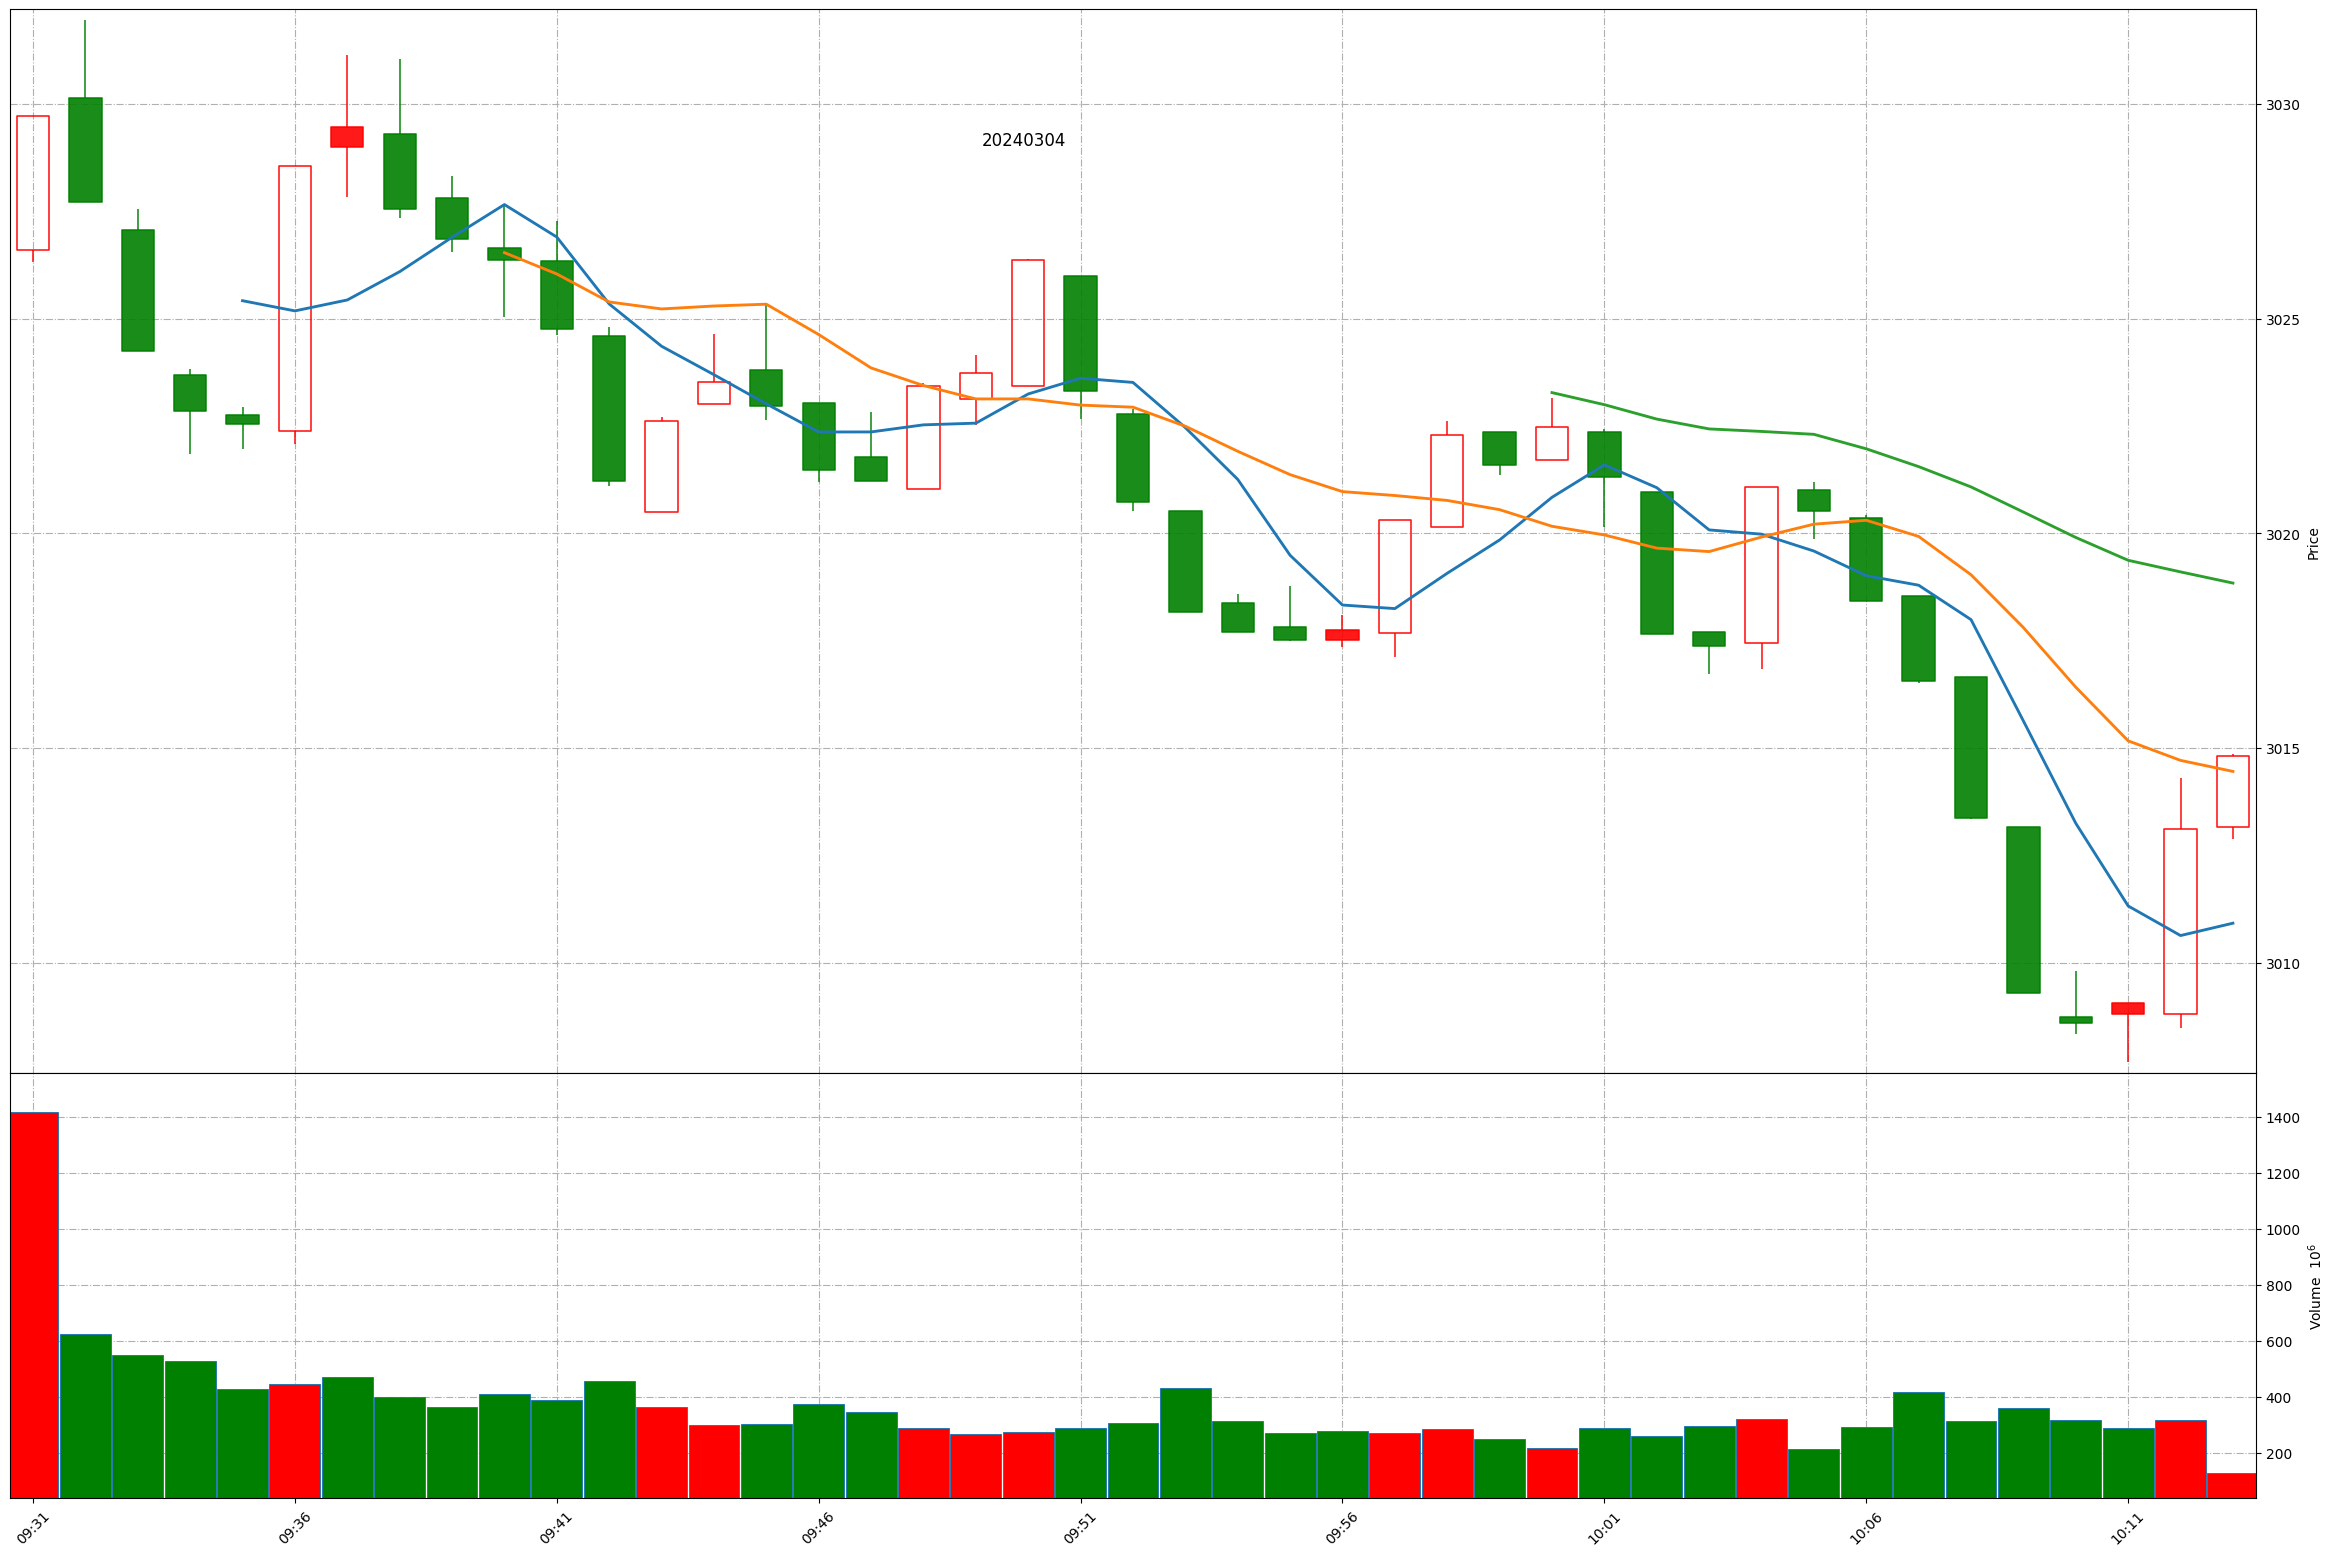
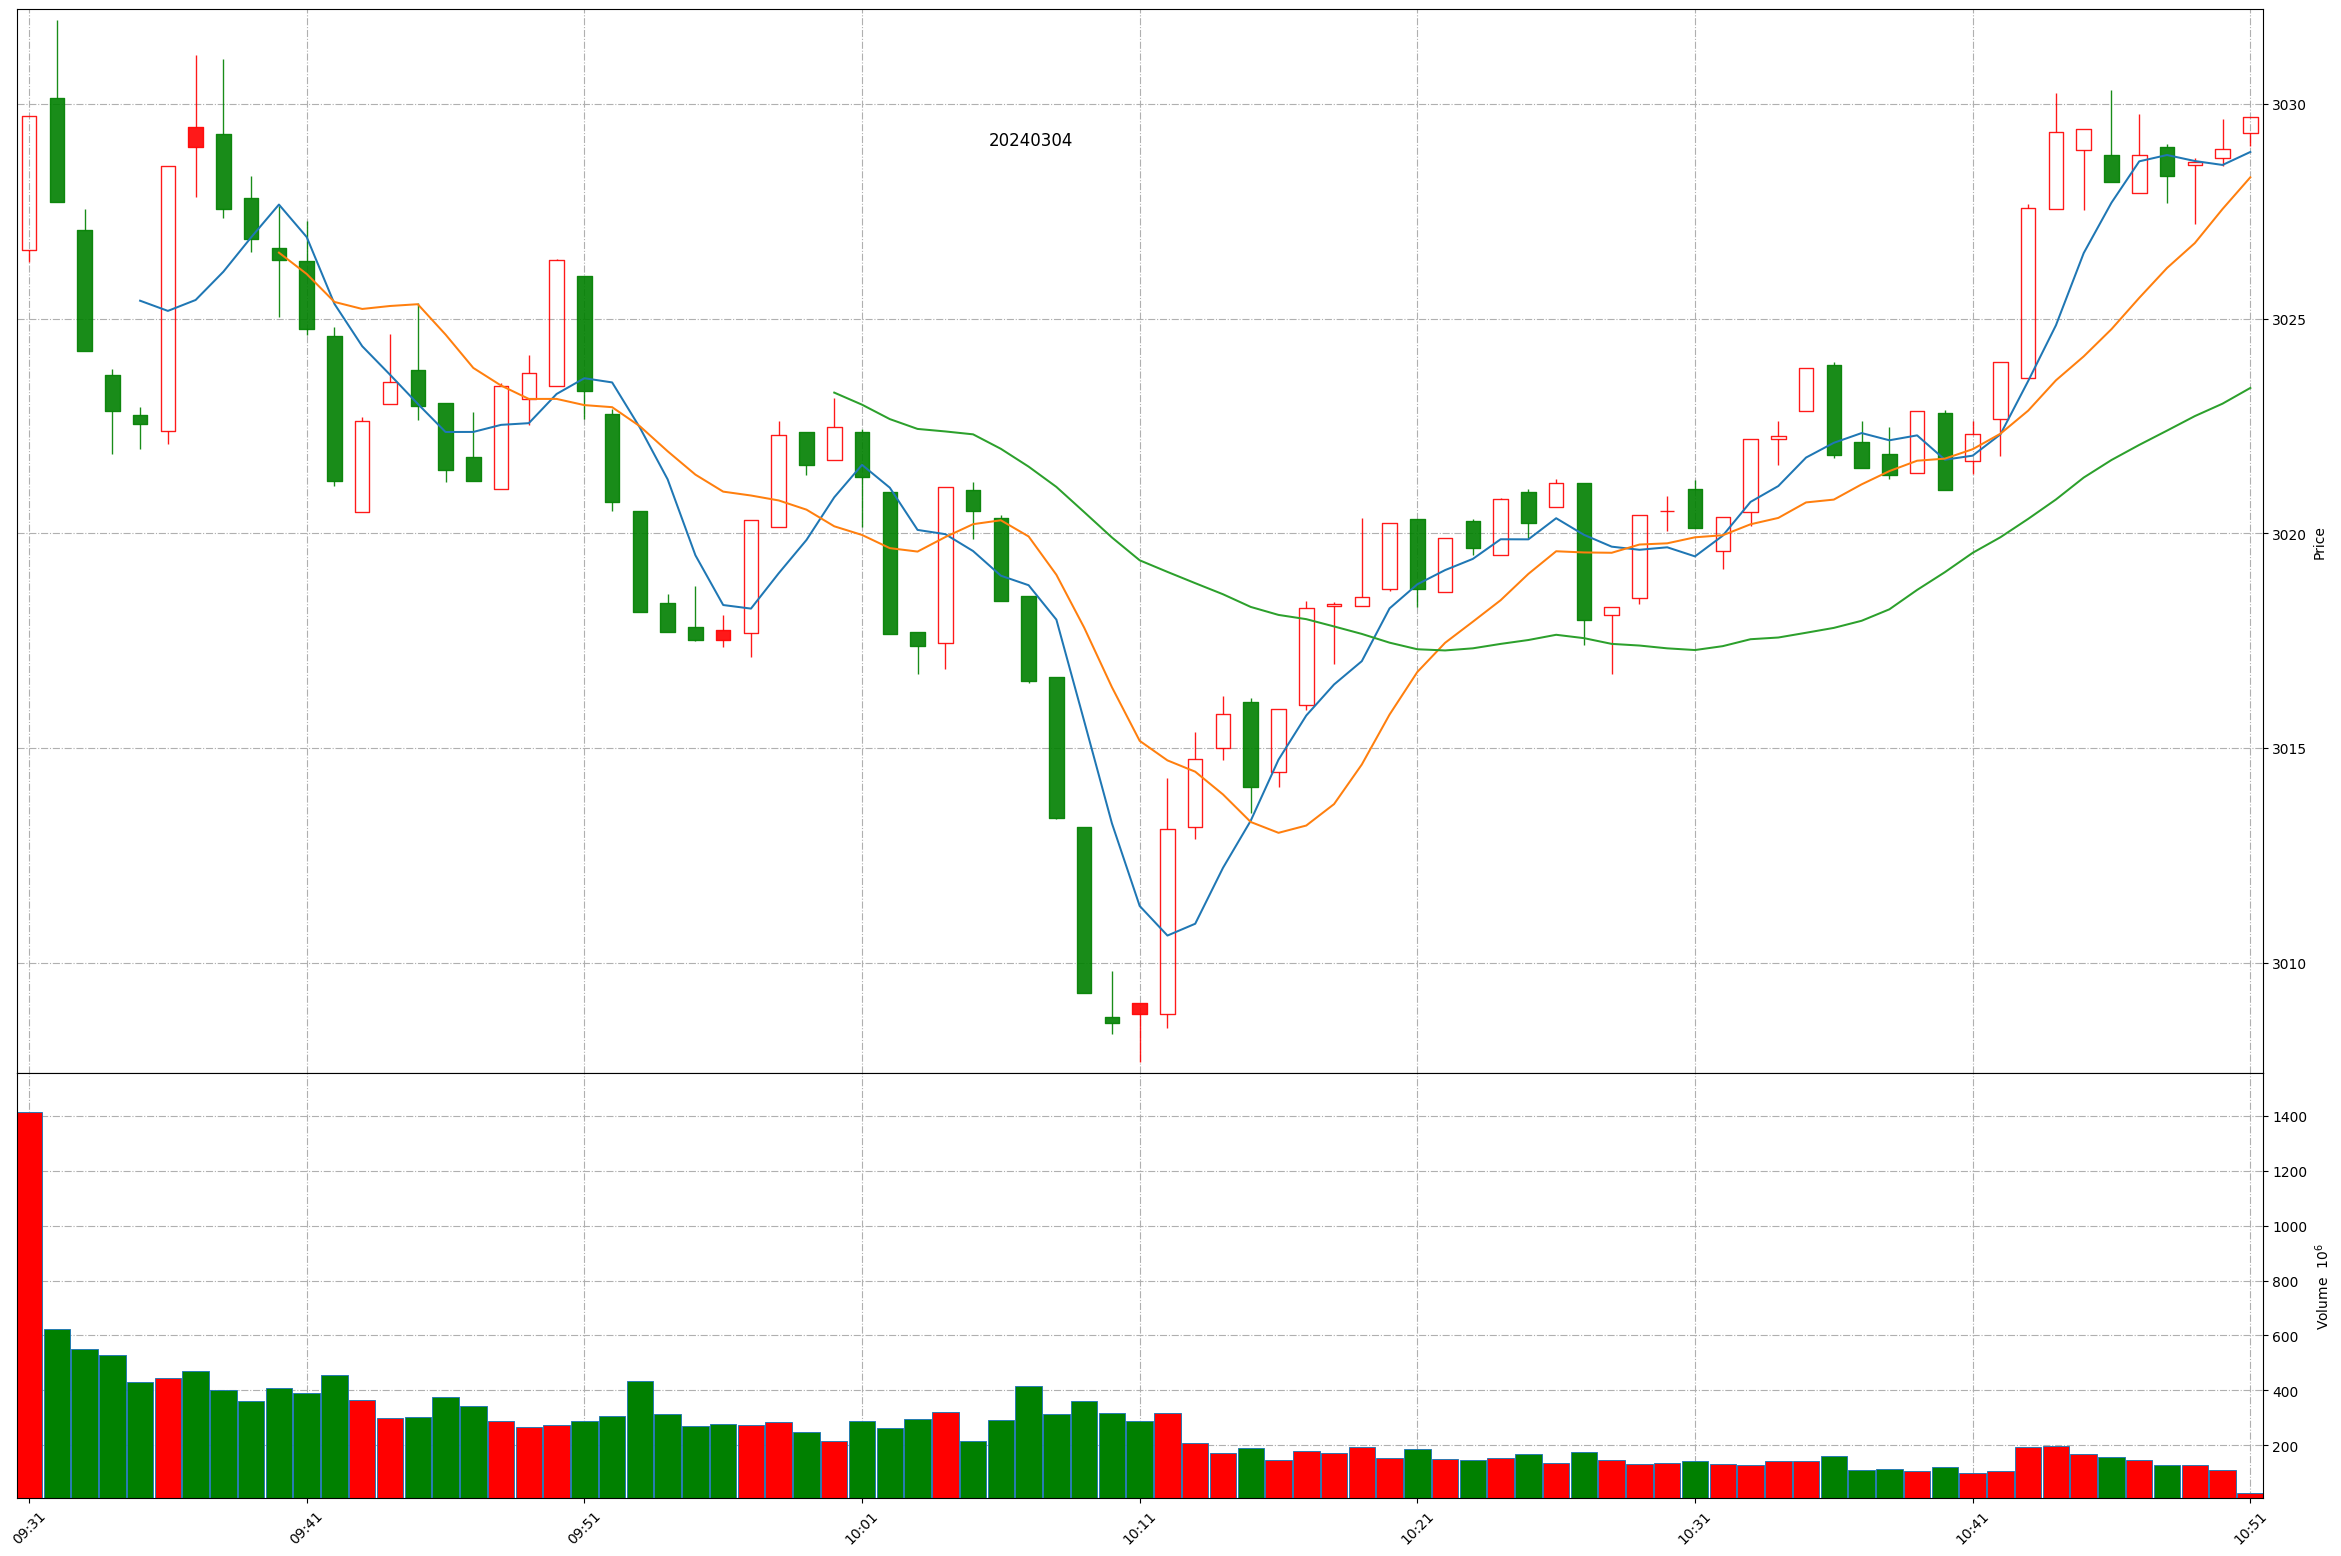
Github action update at 2024-03-04 10:50:34.

diff --git a/README.md b/README.md
@@ -1,11 +1,11 @@
 
 # Daily-A-share-market-quotes 每日 A 股指数（5min 更新）- 20240304
 
-### 上证指数 20240304 10:12
+### 上证指数 20240304 10:50
 ![](./fig/2024/3/20240304-sh000001.png)
 
-### 深证成指 20240304 10:12
+### 深证成指 20240304 10:50
 ![](./fig/2024/3/20240304-sz399001.png)
 
-### 北证50 20240304 10:12
+### 北证50 20240304 10:50
 ![](./fig/2024/3/20240304-bj899050.png)
